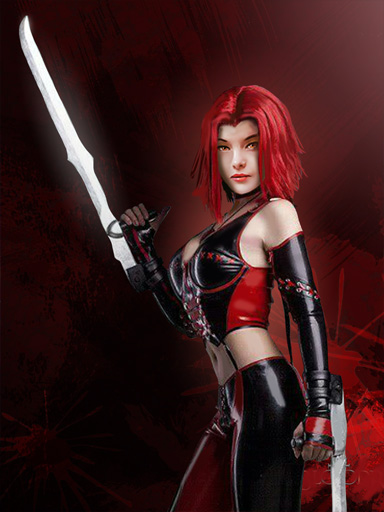
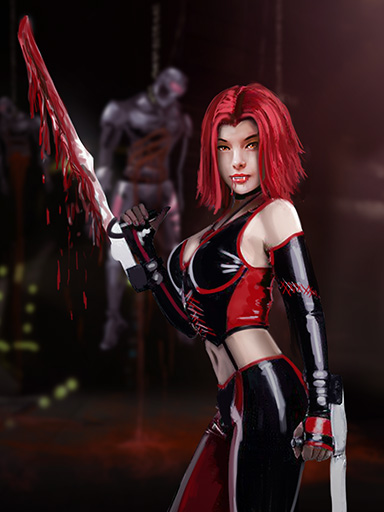
Skins for Nataly updated; new skin for Bolz

diff --git a/imports/content/Person/lib/SteelBolz.js b/imports/content/Person/lib/SteelBolz.js
@@ -9,5 +9,9 @@ export default {
     matrix: {
       isUnique: true,
     },
+    firefly: {
+      isUnique: true,
+      comment: 'Soon',
+    },
   },
 };

diff --git a/imports/content/Person/lib/NatalyVerlen.js b/imports/content/Person/lib/NatalyVerlen.js
@@ -14,7 +14,6 @@ export default {
     },
     br: {
       isUnique: true,
-      comment: 'будет доступен 28.10.2019',
     },
   },
 };
